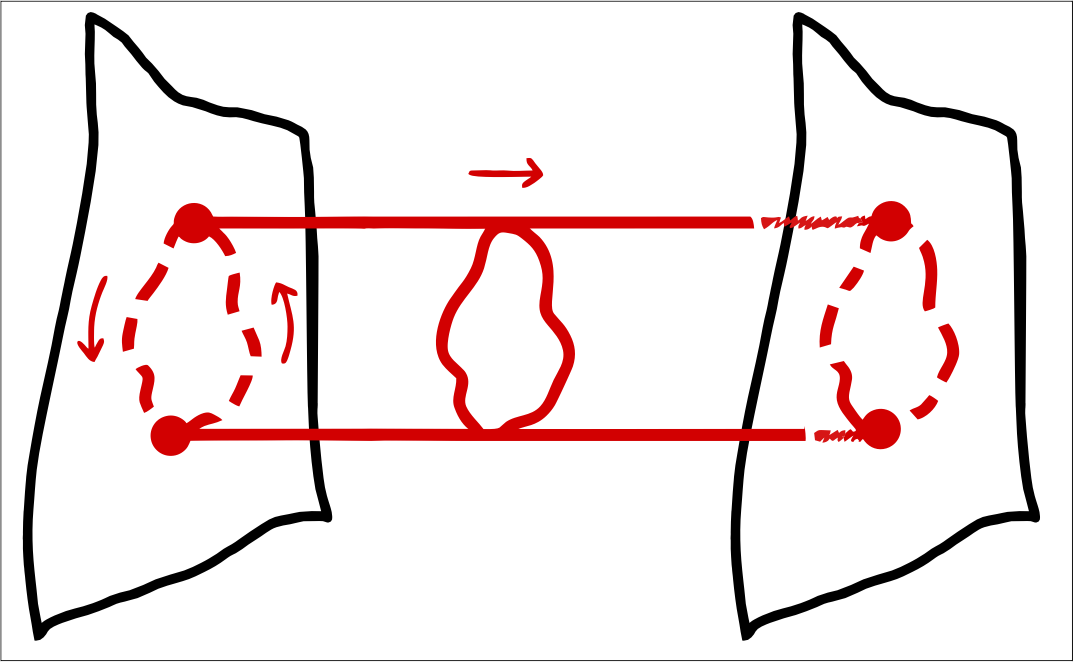
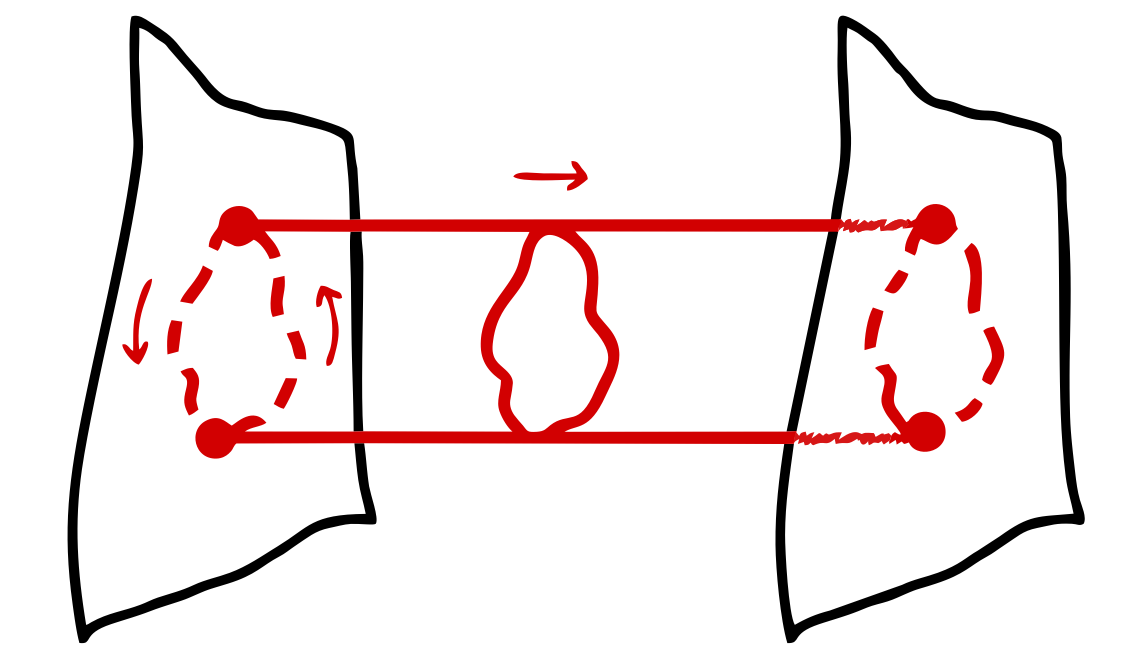
content edits

diff --git a/publications.html b/publications.html
@@ -37,12 +37,13 @@
     <div class="hero-body">
       <h1 class="hero-title">Publications</h1>
       <h2 class="hero-subtitle">2026</h2>
+      <p class="hero-desc"> L. Zhleva, V. Craciun, M. Ward et al.  "ARTEMIS®: A Web-Based Orchestration System for Automating Radiotherapy Planning Workflows" (in peer-review)</p>
       <br>
       <h2 class="hero-subtitle">2025</h2>
-      <p class="hero-desc">Ward, M., K. Oguejiofor, V. Craciun, and I. S. Boon. "Letter: Deep Learning Auto-Segmentation of Organs at Risk in a Real-World Head and Neck Cancer Proton Beam Radiotherapy Planning." Clinical Oncology 43 (2025) <a href="https://www.clinicaloncologyonline.net/article/S0936-6555(25)00104-9/abstract" target="_blank">[ClinOnc]</a></p>
+      <p class="hero-desc">M. Ward, K. Oguejiofor, V. Craciun, and I. S. Boon. "Letter: Deep Learning Auto-Segmentation of Organs at Risk in a Real-World Head and Neck Cancer Proton Beam Radiotherapy Planning." Clinical Oncology 43 (2025) <a href="https://www.clinicaloncologyonline.net/article/S0936-6555(25)00104-9/abstract" target="_blank">[ClinOnc]</a></p>
       <br>
       <h2 class="hero-subtitle">2023</h2>
-      <p class="hero-desc">Evans, N,, and Ward, M. "Running anomalous dimensions in holographic QCD: From the proton to the sexaquark." Physical Review D 108.2 (2023): 026018. <a href="https://arxiv.org/abs/2304.10816" target="_blank">[arXiV]</a> <a href="https://journals.aps.org/prd/abstract/10.1103/PhysRevD.108.026018" target="_blank">[APS]</a></p>
+      <p class="hero-desc">N. Evans and M. Ward "Running anomalous dimensions in holographic QCD: From the proton to the sexaquark." Physical Review D 108.2 (2023): 026018. <a href="https://arxiv.org/abs/2304.10816" target="_blank">[arXiV]</a> <a href="https://journals.aps.org/prd/abstract/10.1103/PhysRevD.108.026018" target="_blank">[APS]</a></p>
       <br>
     </div>
   </section>

diff --git a/contact.html b/contact.html
@@ -36,7 +36,7 @@
   <section class="hero">
     <div class="hero-body">
       <h1 class="hero-title">Get in Touch</h1>
-      <p class="hero-desc">Reach out to ask about my research or to suggest colloborating on a future project.</p>
+      <p class="hero-desc">Reach out to ask about my research, discuss employment opportunities, or to suggest colloborating on a future project.</p>
     </div>
   </section>
   <div style="height: 4vh;"></div>

diff --git a/content/ads-qcd.md b/content/ads-qcd.md
@@ -85,7 +85,7 @@ There are three features of the above form of the AdS/CFT correspondance that ar
 </div>
 
 
-## My Research: AdS/QCD at Finite Temperature
+## AdS/QCD at Finite Temperature
 <br>
 
 Pending...

diff --git a/content/skill-mathematica.md b/content/skill-mathematica.md
@@ -1,3 +1,3 @@
 ### Mathematica
 
-Mathematical modelling in Mathematica: Fuscian solutions to Heun-type hypergeometric PDEs, numerical shooting methods for quasi-linear ODEs, parameter fitting and uncertainty quantificaiton.
+Numerical modelling in Mathematica: Series solutions to hypergeometric PDEs, numerical shooting methods for quasi-linear ODEs, parameter fitting and uncertainty quantificaiton.

diff --git a/content/skill-web.md b/content/skill-web.md
@@ -1,3 +1,3 @@
 ### Web Development
 
-Client-facing web development: design in Figma, production via HTML/CSS with JavaScript integration, vectorized graphics with CorelDraw. Portfolio includes this biographical website.
+Client-facing web development: design in Figma, production via HTML/CSS with JavaScript integration, vectorized graphics with CorelDraw. This wesbite serves as an example of my work.